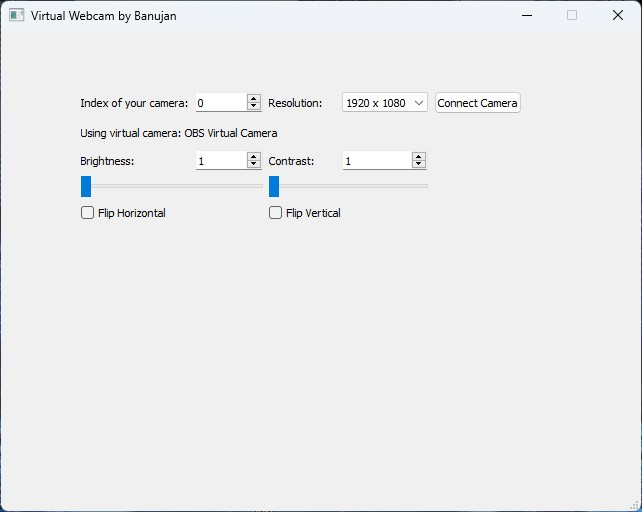
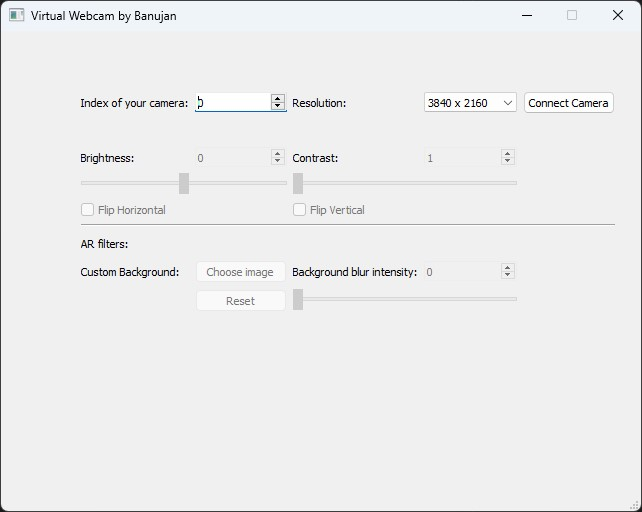
Updated doc with AR filters

diff --git a/README.md b/README.md
@@ -25,14 +25,14 @@ After entering camera settings, click on "Connect Camera" button to connect to t
 2. Flip image
     - You can flip the image horizontally or vertically to see things from a different perspective...
 
+3. AR Filters
+    - Choose a custom background to apply. You have the option to choose any image and/or to blur your background. 
+
 
 
 ## Possible features in the future
 1. Upscaling camera quality
     - Allow users to go above the resolution supported natively by their webcam.
 
-2. AR Filters
-    - Allow users to enjoy AR filters. Ideas : background effects, face detection, etc.
-
-3. Fisheye correction
+2. Fisheye correction
     - If your webcam suffers from a fisheye correction, you will be able to correct it and display the undistorted image in your virtual webcam. 
